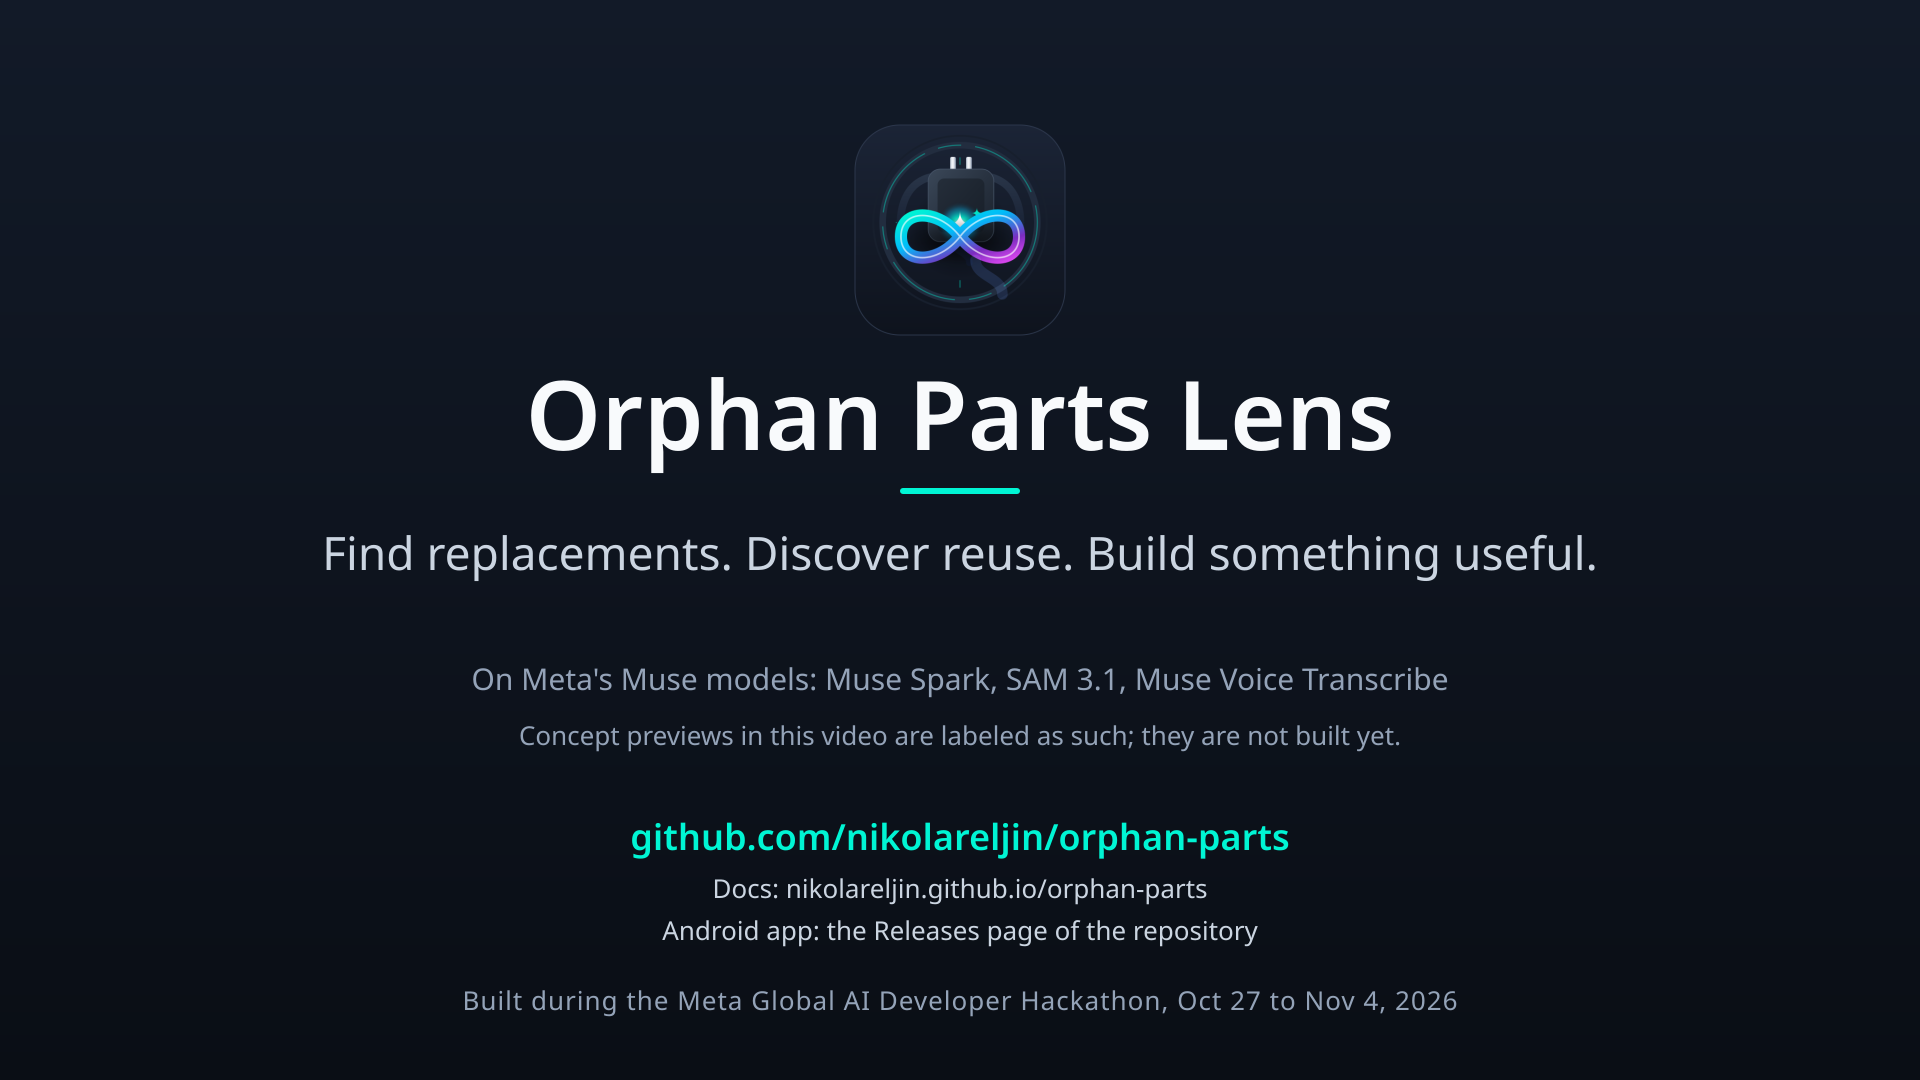
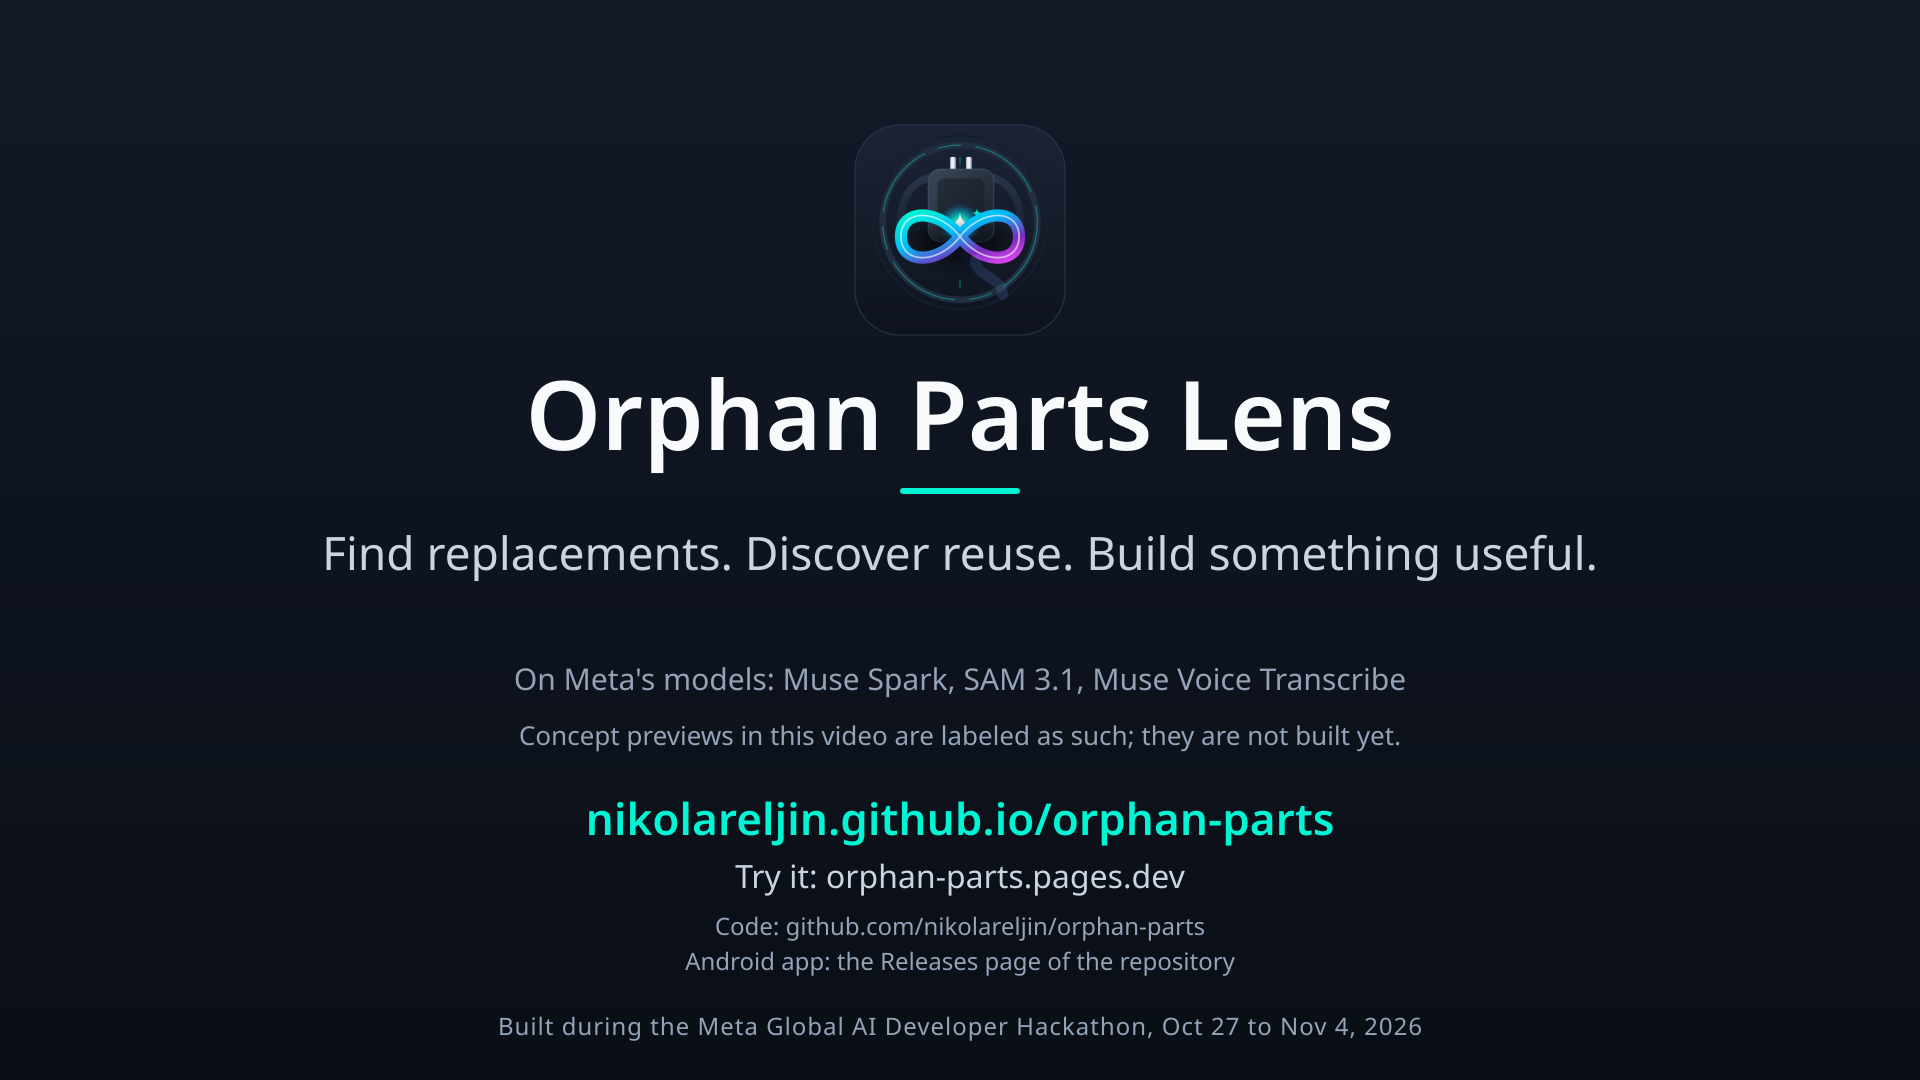
fix(video): monitors not drives, one session for the build scenes, SAM named apart, plain notes, US spelling, docs site first on the closing card

Changed region(s): [[0.25, 0.7333, 0.75, 0.9778], [0.25, 0.6111, 0.75, 0.6417]]

diff --git a/video/scripts/captions.py b/video/scripts/captions.py
@@ -75,4 +75,11 @@ def main(src, dst):
 
 
 if __name__ == "__main__":
-    main(*sys.argv[1:3])
+    args = sys.argv[1:]
+    if args and args[0] in ("-h", "--help"):
+        print(__doc__.strip())
+        sys.exit(0)
+    if len(args) != 2:
+        print(__doc__.strip(), file=sys.stderr)
+        sys.exit(2)
+    main(*args)

diff --git a/video/scripts/main.md b/video/scripts/main.md
@@ -1,13 +1,12 @@
 # Main video: narration (2:50)
 
-The owner's draft narration, corrected only where it described something the app does not do
-yet. Each correction is listed under the section it belongs to. Shot numbers point at
-[the storyboard](../storyboard/main.md). The captions in `main.srt` are written from the
+The narration, section by section. Under each section, a note of what the app does in it and
+what is not claimed. Shot numbers point at [the storyboard](../storyboard/main.md). The captions in `main.srt` are written from the
 quoted lines below by `captions.py`; edit the text here, then run it again.
 
 Pace: 342 words in 170 seconds, about 2.0 words a second (120 words a minute) including
-pauses. Section 4 is the densest at 2.2 words a second; read it a little faster or give it
-two seconds from section 5.
+pauses. Section 1 (0:00 to 0:18) is the densest at 2.3 words a second, then section 4 (1:12 to
+1:52) at 2.2; read them a little faster, or give section 1 a second from section 2.
 
 ## 0:00 to 0:18 · Two questions
 
@@ -16,8 +15,6 @@ Shots S01 to S03.
 > One missing part can interrupt a favorite routine. Meanwhile, useful electronics sit in
 > drawers because we don't know what to do with them. Orphan Parts Lens starts with two
 > questions: what do you have, and what do you want to accomplish?
-
-Unchanged.
 
 ## 0:18 to 0:55 · Story A: the drink mixer
 
@@ -30,22 +27,21 @@ Shots S04 to S08.
 > produces the result I want, is the next step. The useful answer includes the evidence and
 > questions needed before I buy.
 
-Corrected: the draft said the app *explores three routes*. Today it searches for the
-replacement part only (the `blender_agitator` profile and a search request you run on
-Marketplace). The donor-appliance and other-device routes are not built; the line now calls
-them the next step, and title `t07-routes` labels them a concept preview on screen.
+The app searches for the replacement part only: the `blender_agitator` profile and a search
+request you run on Marketplace. The donor-appliance and other-device routes are not built;
+the narration calls them the next step, and title `t07-routes` labels them a concept preview
+on screen.
 
 ## 0:55 to 1:12 · Story B: what I own and what I want
 
 Shots S09 and S10.
 
-> The same approach applies to my unused electronics. I catalogue my laptops, drives,
+> The same approach applies to my unused electronics. I catalog my laptops, monitors,
 > tablets, and accessories. Then I explain my interests, budget, and experience, so the
 > suggestions fit both my equipment and me.
 
-Unchanged. The demo set holds laptops, RAM, tablets, monitors, mice and switches but no
-drive: add a drive to the inventory before recording S09, or say "monitors" instead of
-"drives".
+The demo set holds laptops, RAM, tablets, two monitors, mice and switches; every item named
+here is in it.
 
 ## 1:12 to 1:52 · The arcade
 
@@ -58,15 +54,11 @@ Shots S11 to S16.
 > steps, and the safety notes. A connection diagram and an assembly preview, shown here as
 > concept previews, would explain how the computer, display, and controls work together.
 
-Corrected:
-
-- *a task display* became *a smart mirror*: there is no task-display template; the smart
-  mirror template shows the time, the weather and a calendar.
-- *the app opens the search, and I run it* added, so nothing suggests the app searches
-  Marketplace on its own.
-- The draft said a connection diagram *explains* and an assembly preview *helps*. Neither is
-  in the app. The build pack (real) now carries the sentence, and the diagram and the
-  preview are named as concept previews.
+- The smart mirror is one of the app's project templates: the time, the weather and a
+  calendar.
+- The app opens a Marketplace search; you run it. It does not search Marketplace on its own.
+- The build pack is in the app. The connection diagram and the assembly preview are not; on
+  screen they are labeled concept previews.
 
 ## 1:52 to 2:15 · The next step
 
@@ -77,8 +69,8 @@ Shots S17 and S18.
 > shown in this concept preview: a downloadable build package, including designs for
 > suitable brackets or housings.
 
-Unchanged: the draft already calls this the next step and a concept preview. On screen,
-titles `t16-swap` and `t17-brackets` carry the label.
+Not built: a concept preview. On screen, titles `t16-swap` and `t17-brackets` carry the
+label.
 
 ## 2:15 to 2:40 · Why it matters
 
@@ -89,12 +81,10 @@ Shots S19 to S21.
 > secondhand parts easier to evaluate. Each confirmed result could also become useful
 > evidence for the next person facing the same problem.
 
-Unchanged: every claim is conditional.
+Every claim here is conditional.
 
 ## 2:40 to 2:50 · Close
 
 Shot S22.
 
 > Orphan Parts Lens. Find replacements. Discover reuse. Build something useful.
-
-Unchanged.

diff --git a/video/storyboard/main.md b/video/storyboard/main.md
@@ -8,7 +8,10 @@ titles from `titles/`, top left, in for the first 4 s of a shot unless said othe
 Captions bottom center, from `scripts/main.srt`.
 
 Browser: the web app at `http://localhost:5173`, window content 1920x1080, zoom 110 percent.
-Before every web take: `./dev demo` (the inventory reset and the demo set loaded).
+Reset once, `./dev demo` (the inventory reset and the demo set loaded), before the fixture
+scenes. Record S11 to S14 as one session with no reset in between: a reset clears the live
+proposals and the selection S12 needs for **Move it here**. Stage the conflicting selection
+first (select a second project that commits the laptop), then record S11 to S14.
 
 | Shot | Time | Dur | Picture | Exact actions | Source | Overlay | Status |
 |---|---|---|---|---|---|---|---|
@@ -17,7 +20,7 @@ Before every web take: `./dev demo` (the inventory reset and the demo set loaded
 | S03 | 0:12 | 6 | Opening card | 1 s fade in from black | `brand/card-open.png` | none | card |
 | S04 | 0:18 | 8 | The mixer and the worn agitator, close: the tabs at the top of the rod | Macro or close focus; the label on the base visible in frame | phone camera | `t01-story-a` | photos |
 | S05 | 0:26 | 6 | The phone's Capture tab | Capture tab: photograph the base, the label (fills the frame), the agitator; hold to talk: "the rod wobbles in the drive; the base runs"; type a name; **Send** | scrcpy window in OBS, or `adb shell screenrecord` | `t02-capture` | photos |
-| S06 | 0:32 | 5 | The capture read into an item | **Inbox**, the new capture, **Read it**; the label crop and the values *to confirm*; **Accept** one value | OBS, browser | `t03-read` | photos (and key) |
+| S06 | 0:32 | 5 | The capture read into an item | **Inbox**, the new capture, **Read it**; open the item: the label crop and the values *to confirm*; **Accept** one value | OBS, browser | `t03-read` | photos (and key) |
 | S07 | 0:37 | 5 | A dimension from a ruler | **My inventory**, *Frappé maker agitator, worn*, **Measure a feature**, feature *Rod diameter*, upload the side photo with the ruler, mark two points on the ruler and the two edges of the rod, **Measure**; the value with its method and uncertainty | OBS, browser | `t04-measure` | photos |
 | S08 | 0:42 | 13 | The replacement search, its open questions | **Find a part**, the search *all-metal agitator rod for the frappé maker*; hover **Search Marketplace** (do not open it on camera); **Bring a listing back**, choose **Values I know**, type only what a seller might state, **Assess it**; the state (*needs evidence* expected), **Ask the seller**, the questions | OBS, browser | `t05-find` 0 to 3 s, `t07-routes` 3 to 7 s, `t06-sample-values` 7 to 11 s | now |
 | S09 | 0:55 | 8 | The inventory: laptops, RAM, tablets, monitors, mice, switches | **My inventory**, scroll the list slowly; open *Third laptop, works* for 2 s | OBS, browser | `t08-story-b` | now |

diff --git a/video/readiness.md b/video/readiness.md
@@ -47,13 +47,13 @@ here.**
 | S03 | Opening card | card | nothing | `brand/card-open.png` |
 | S04 | The mixer and the worn agitator, close | needs owner footage | the appliance and the part | phone camera |
 | S05 | Capture on the phone | needs owner photos | the app installed and paired, the appliance | Capture tab, photos, hold to talk, name, **Send** |
-| S06 | Read the label | needs owner photos and the key | S05's capture; `OPL_FAKE_API=0` with the key | **Inbox**, **Read it**, **Accept** |
+| S06 | Read the label | needs owner photos and the key | S05's capture; `OPL_FAKE_API=0` with the key | **Inbox**, **Read it**, open the item, **Accept** |
 | S07 | Measure the rod | needs owner photos | a side photo of the rod with a ruler in the same plane | **My inventory**, the agitator, **Measure a feature**, *Rod diameter*, marks, **Measure** |
 | S08 | The replacement search and its questions | recordable now | `./dev demo`; check the *Needs* line (storyboard note) | **Find a part**, the agitator search, hover **Search Marketplace**, **Bring a listing back**, **Values I know**, **Assess it**, **Ask the seller** |
-| S09 | The inventory | recordable now | `./dev demo`; a drive item, or say "monitors" | **My inventory**, scroll, open *Third laptop, works* |
+| S09 | The inventory | recordable now | `./dev demo` | **My inventory**, scroll, open *Third laptop, works* |
 | S10 | What I want from a build | recordable now | `./dev demo` | **Build and reuse**, **What I want from a build**, fields, **Save** |
 | S11 | Five proposals | recordable with the key | live Muse Spark run (fixture mode proposes the homework desk, not the arcade) | **Propose projects**, How many **5**, **Propose** |
-| S12 | Select the arcade, resolve a conflict | recordable with the key | S11's arcade proposal; a second selected project that wants the same laptop | open the arcade, **Select and commit the items**, **Move it here** |
+| S12 | Select the arcade, resolve a conflict | recordable with the key | S11's arcade proposal; a second project that wants the same laptop, selected before S11 in the same session | open the arcade, **Select and commit the items**, **Move it here** |
 | S13 | Missing controls as a Marketplace search | recordable with the key | S12 | *Still needed*, **Find it on Marketplace**, hover **Search Marketplace** |
 | S14 | The build pack | recordable with the key | S12 | **Write the build pack**, **Download** |
 | S15 | Connection diagram | concept preview | nothing | `diagrams/arcade-connections.png` |

diff --git a/video/README.md b/video/README.md
@@ -10,7 +10,7 @@ electronics turned into a tabletop arcade.
 | Path | What |
 |---|---|
 | [readiness.md](readiness.md) | what the app does today, and for each scene: recordable now, needs the key, needs the owner's photos, or a concept preview, with the exact app actions |
-| [scripts/main.md](scripts/main.md), [scripts/short.md](scripts/short.md) | the narration, with every correction to the draft explained |
+| [scripts/main.md](scripts/main.md), [scripts/short.md](scripts/short.md) | the narration, with a note per section of what the app does and what is not claimed |
 | `scripts/main.srt`, `scripts/short.srt` | captions; `scripts/captions.py` writes them from the scripts |
 | [storyboard/main.md](storyboard/main.md), [storyboard/short.md](storyboard/short.md) | the shot lists: times, durations, pictures, exact actions, overlays |
 | [recording.md](recording.md) | OBS Studio on Ubuntu, the stack in fixture and live mode, the phone |
@@ -33,7 +33,8 @@ electronics turned into a tabletop arcade.
    Photograph the mixer's label and the agitator next to a ruler for S05 to S07.
 3. **Rehearse in fixture mode**: `./dev up`, `./dev demo`, every *now* scene once.
 4. **Record** with OBS (`recording.md`): the fixture scenes, then the live ones with the key.
-   `./dev demo` before every take.
+   `./dev demo` once before the fixture scenes; S11 to S14 as one session with no reset,
+   the conflicting selection staged first.
 5. **Check the timing**: `video/animatic.sh` and watch `video/out/animatic-main.mp4`.
 6. **Cut** in Clipchamp (`clipchamp.md`) by `storyboard/main.md`; export a short test first.
 7. **Record the narration** to the cut, retime the captions (`recording.md`, *Narration*).

diff --git a/video/recording.md b/video/recording.md
@@ -31,7 +31,7 @@ From a clone of the repository, `main` checked out:
 ```bash
 cp .env.example .env          # once
 ./dev up
-./dev demo                    # before every take: the inventory reset, the demo set loaded
+./dev demo                    # once, before the fixture scenes: the inventory reset, the demo set loaded
 ```
 
 - **Fixture scenes** (status *now* in `readiness.md`): `.env` with `OPL_FAKE_API=1`. Nothing
@@ -41,8 +41,10 @@ cp .env.example .env          # once
   says the mode is live. Each **Propose** and **Read it** spends credits; rehearse in fixture
   mode, then record each live take once or twice.
 
-Record the fixture scenes first, then the live ones, so a reset between takes never costs a
-run.
+Record the fixture scenes first, then the live ones. Record S11 to S14 as one session with no
+reset in between: `./dev demo` clears the live proposals and the second selected project that
+S12 needs for **Move it here**. Stage the conflicting selection first (select a second project
+that commits the laptop), then record S11 to S14.
 
 ## The phone
 

diff --git a/video/assets.md b/video/assets.md
@@ -13,7 +13,7 @@ every take, clip or track that goes into the cut.
 | `titles/*.svg`, `*.png` | drawn for the video | MIT |
 | `diagrams/*.svg`, `*.png` | drawn for the video from the arcade template's requirements; concept previews | MIT |
 | `cad/arcade_panel.scad` | written for the video; unvalidated, placeholders only | MIT |
-| `scripts/*.md`, `*.srt` | the owner's narration, corrected for accuracy | the owner's |
+| `scripts/*.md`, `*.srt` | the owner's narration; each section notes what the app does and what is not claimed | the owner's |
 | Text in every PNG | Noto Sans, rendered into the pictures; the font file is not distributed | SIL Open Font License 1.1 |
 
 ## Recorded for the video

diff --git a/video/runway-prompts.md b/video/runway-prompts.md
@@ -2,7 +2,7 @@
 
 For context only: a few seconds of atmosphere at the start (S01, S02) when the owner's own
 footage is not available. Never for anything the app does, never imitating its screens, never
-showing a repair that worked. A clip from here carries the line *Illustrative clip, generated
+showing a repair that worked. A clip from here carries the line *Illustrative clip, made
 with Runway* in the bottom right for its whole duration, and is listed in `assets.md`.
 
 Before using any: check the plan's current terms for use in a public video and for a

diff --git a/video/scripts/short.md b/video/scripts/short.md
@@ -16,7 +16,7 @@ Shot K1.
 
 Shot K2.
 
-> I catalogue what I own, then say what I want: my interests, budget, and experience.
+> I catalog what I own, then say what I want: my interests, budget, and experience.
 
 ## 0:13 to 0:23 · Proposals
 
